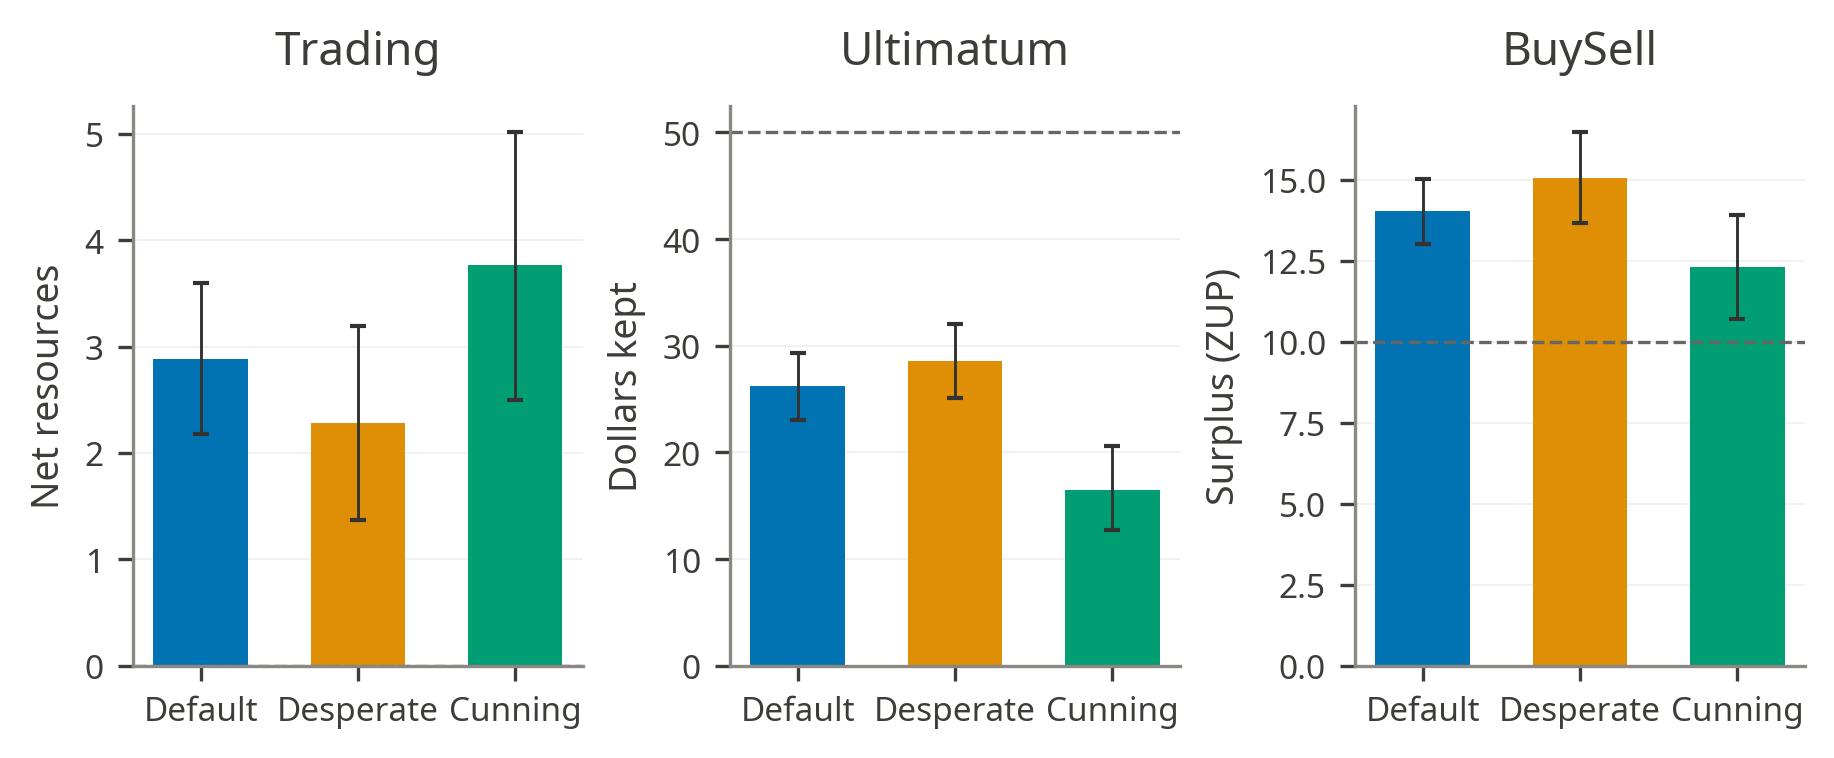
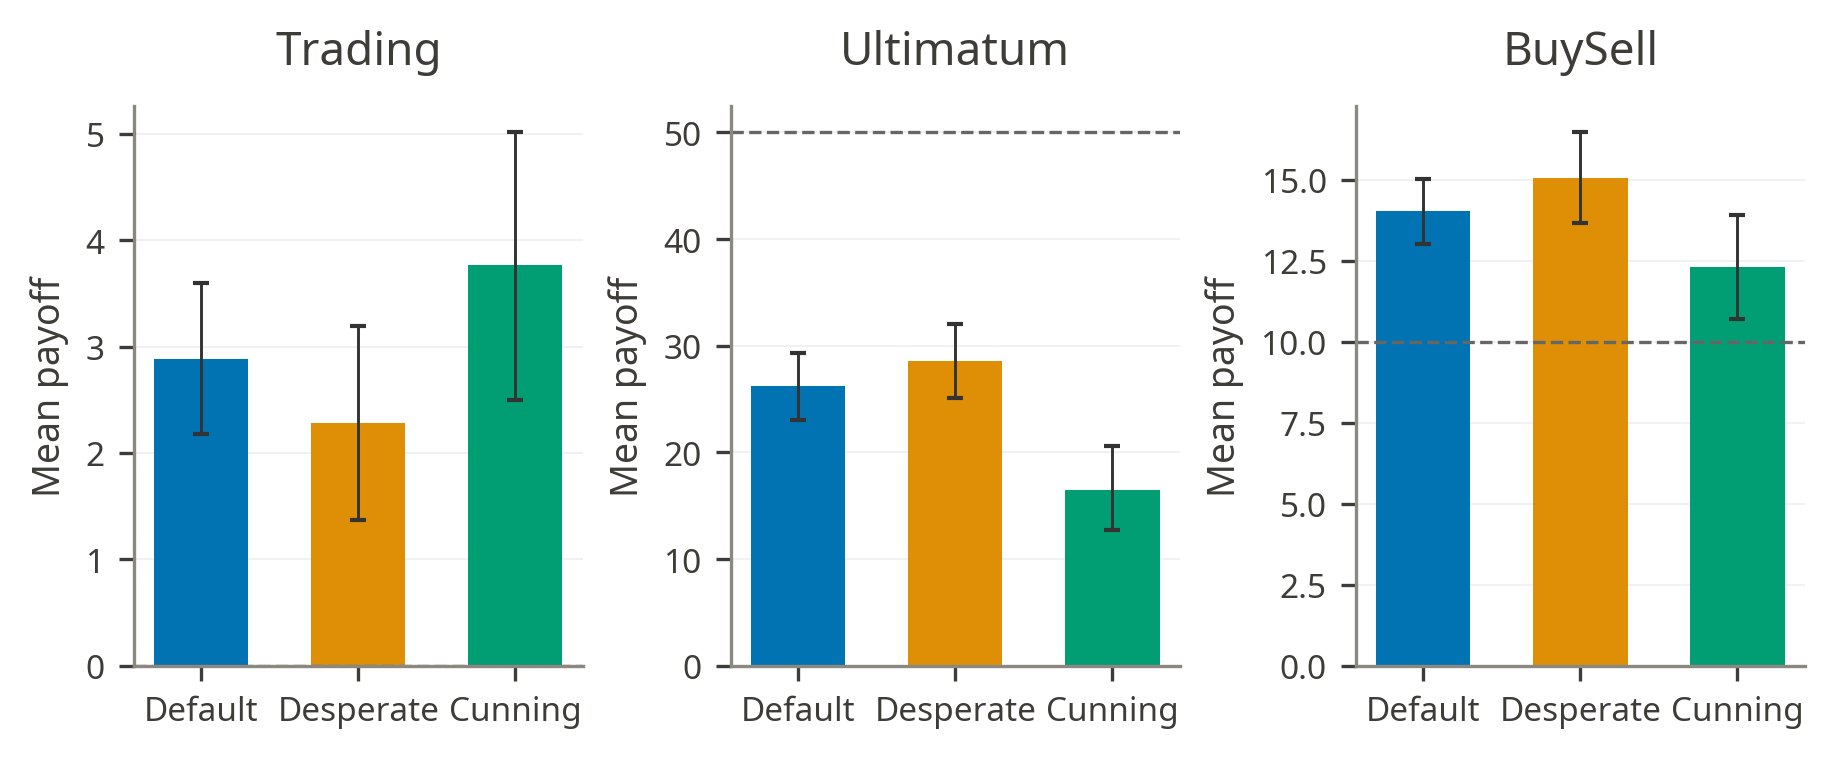
Update chapter 4 with references to new annex

diff --git a/context/MSc_Thesis/body/chapter4.tex b/context/MSc_Thesis/body/chapter4.tex
@@ -183,7 +183,7 @@ BuySell is a positive-sum game in which any price between the seller's cost of p
     \includegraphics[width=0.5\linewidth]{figures/results/cross_play/buysell_seller_anchoring.png}
     \caption{Seller opening price versus final agreed price in BuySell. The strong positive relationship indicates anchoring: opening higher is associated with closing higher.}
     \label{fig:buysell-seller-anchoring}
-\end{figure}average, at 40.2, and settle at 43.0.
+\end{figure}
 
 We also observe some irrational pricing. Across games, sellers open below their production cost in 16.2\% of games, and 12.9\% of completed deals close below cost. \texttt{Gemma-3-12B-it} is particularly irrational, opening below production cost in 76.7\% of games. Qwen, on the other hand, almost never makes this error.
 
@@ -191,7 +191,7 @@ We also observe some irrational pricing. Across games, sellers open below their 
 
 \textcite{bianchi_how_2024} reported that in GPT-4 self-play, assigning Player 2 a \textit{cunning} or \textit{desperate} persona raised both its win rate and payoff across all three games. We test whether this result transfers to open-weight models. In this experiment, the persona is assigned only to Player 2, and both seats use the same model (Subsection~\ref{sec:personas}). The result therefore reflects both how the model behaves when carrying the persona as P2 and how the same model, in the default P1 seat, responds.
 
-The GPT-4 pattern does not transfer completely. The effect is game-specific (Figure~\ref{fig:persona-winrate-game}) and varies significantly across models. In the Ultimatum Game, where the default responder wins only 14.3\% of games, \textit{cunning} raises Player 2's win rate to 70.5\%. In BuySell, \textit{desperate} raises Player 2's win rate from 75.2\% to 96.7\%. Trading shows no such gain; the win rate drops from 76.6\% under default to 64.1\% under \textit{desperate} and 71.9\% under \textit{cunning}.
+The GPT-4 pattern does not transfer completely. The effect is game-specific (Figure~\ref{fig:persona-winrate-game}) and varies significantly across models (Figures~\ref{fig:persona-winrate-heatmap}, Appendix~\ref{ap4:personas}). In the Ultimatum Game, where the default responder wins only 14.3\% of games, \textit{cunning} raises Player 2's win rate to 70.5\%. In BuySell, \textit{desperate} raises Player 2's win rate from 75.2\% to 96.7\%. Trading shows no such gain; the win rate drops from 76.6\% under default to 64.1\% under \textit{desperate} and 71.9\% under \textit{cunning}. The same breakdown by parameter tier (Figure~\ref{fig:persona-winrate-tier}, Appendix~\ref{ap4:personas}) shows the pattern is not monotonic in model size.
 
 \begin{figure}
     \centering
@@ -203,7 +203,7 @@ The GPT-4 pattern does not transfer completely. The effect is game-specific (Fig
     \label{fig:persona-winrate-game}
 \end{figure}
 
-Win rate alone is misleading here: it excludes ties, including the no-deals in which both sides score zero. Cunning in Ultimatum illustrates this well: despite having the highest win rate, it returns the lowest mean payoff of the three conditions (\$16.5 against \$26.2 at default and \$28.5 for desperate). The main reason for this mismatch between win rate and payoff is the no-deal rate (Figure~\ref{fig:persona-nodeal-game}). Cunning raises it in every game, and in Ultimatum it leads to a 73\% no-deal rate, compared to 13\% under default and 12\% under desperate. Even though it closes fewer deals, when those deals are closed, the cunning responder keeps far more than the others (\$61.7 on average, compared to \$30.2 at default and \$32.5 for desperate). Cunning is therefore high-risk, high-reward, a behaviour \textcite{bianchi_how_2024} also noticed for GPT-4. 
+Win rate alone is misleading here: it excludes ties, including the no-deals in which both sides score zero. Cunning in Ultimatum illustrates this well: despite having the highest win rate, it returns the lowest mean payoff of the three conditions (\$16.5 against \$26.2 at default and \$28.5 for desperate; Figure~\ref{fig:persona-payoff-game}, Appendix~\ref{ap4:personas}). The main reason for this mismatch between win rate and payoff is the no-deal rate (Figure~\ref{fig:persona-nodeal-game}). Cunning raises it in every game, and in Ultimatum it leads to a 73\% no-deal rate, compared to 13\% under default and 12\% under desperate. Even though it closes fewer deals, when those deals are closed, the cunning responder keeps far more than the others (\$61.7 on average, compared to \$30.2 at default and \$32.5 for desperate; Figure~\ref{fig:persona-payoff-conditional}, Appendix~\ref{ap4:personas}). Cunning is therefore high-risk, high-reward, a behaviour \textcite{bianchi_how_2024} also noticed for GPT-4.
 
 \begin{figure}
     \centering
@@ -214,7 +214,7 @@ Win rate alone is misleading here: it excludes ties, including the no-deals in w
     \label{fig:persona-nodeal-game}
 \end{figure}
 
-The analysis of Figure~\ref{fig:persona-offer-extremity} helps explain why these deals fail. Personas increase the demand extremity in the Ultimatum Game. At Player 2's first move, the default responder proposes an even split (median demand of 50) against a P1 that offers a quarter of the pot (median 25). \textit{Cunning} jumps the median demand to \$80. Cunning also reshapes the first response: the cunning P2 only accepts 8\% of first offers, counter-proposes in 34\% and rejects the remaining 58\% outright. The no-deals are mainly driven by the persona-bearing responder walking away. A total of 62.5\% of cunning Ultimatum games end after a P2 rejection compared to 9.8\% after P1, and this pattern holds across all three families.
+The analysis of Figure~\ref{fig:persona-offer-extremity} helps explain why these deals fail. Personas increase the demand extremity in the Ultimatum Game. At Player 2's first move, the default responder proposes an even split (median demand of 50) against a P1 that offers a quarter of the pot (median 25). \textit{Cunning} jumps the median demand to \$80. Cunning also reshapes the first response: the cunning P2 only accepts 8\% of first offers, counter-proposes in 34\% and rejects the remaining 58\% outright (Figure~\ref{fig:persona-first-action}, Appendix~\ref{ap4:personas}). The no-deals are mainly driven by the persona-bearing responder walking away. A total of 62.5\% of cunning Ultimatum games end after a P2 rejection compared to 9.8\% after P1 (Figure~\ref{fig:persona-rejection-initiator}, Appendix~\ref{ap4:personas}), and this pattern holds across all three families (Figure~\ref{fig:persona-nodeal-family}, Appendix~\ref{ap4:personas}).
 
 \begin{figure}
     \centering
@@ -258,7 +258,7 @@ Excerpt~\ref{ex:persona-cunning-two-sided} shows both sides of the high-risk, hi
 
 \textit{Desperate} is the less destructive of the two personas, with lower no-deal rates than \textit{cunning} in Trading (6.0\% versus 13.3\%), Ultimatum (12.1\% versus 72.7\%), and BuySell (29.3\% versus 40.2\%). Compared to the default, however, desperation increases the no-deal rate in Trading (from 2.0\% to 6.0\%) and BuySell (from 1.1\% to 29.3\%), while having little effect on the Ultimatum Game (12.1\%, down marginally from 13.2\%).
 
-One possible reason is that the desperate persona can talk a seller into accepting below their production cost: the mean accepted price of 38.6 ZUP sits below the seller's production cost of 40 ZUP, as seen in Excerpt~\ref{ex:persona-desperate-buysell}.
+One possible reason is that the desperate persona can talk a seller into accepting below their production cost: the mean accepted price of 38.6 ZUP sits below the seller's production cost of 40 ZUP (Figure~\ref{fig:persona-buysell-price}, Appendix~\ref{ap4:personas}), as seen in Excerpt~\ref{ex:persona-desperate-buysell}.
 
 \begin{negotiationexcerpt}[label=ex:persona-desperate-buysell]{A pleading buyer talks the seller below cost}{BuySell, 12--14B tier, Ministral~3 14B self-play, desperate P2; run \texttt{1779064096831}}
 \speaker{P1 (default seller)} Hello Player BLUE! I'm selling X (1 unit) and would like to propose a trade: 25 ZUP for it. \elide I'm open to reasonable counteroffers!
@@ -275,7 +275,7 @@ One possible reason is that the desperate persona can talk a seller into accepti
 \noindent Final price: 12 ZUP, below the seller's 40-ZUP cost --- seller surplus $-28$, buyer surplus $+48$.
 \end{negotiationexcerpt}
 
-The size of the persona effect also varies sharply from one model to the next (Figure~\ref{fig:persona-effect-spread}). It is not a uniform shift in one direction. For example, for some models, being cunning in the Ultimatum Game greatly increases win rate: \texttt{Gemma-3-27B-it} (+0.90), \texttt{Qwen-3.5-27B} (+0.80), and \texttt{Gemma-3-12B-it} (+0.62), while for others it has the opposite effect: \texttt{Ministral-3-8B} (-0.47).  
+The size of the persona effect also varies sharply from one model to the next (Figure~\ref{fig:persona-effect-spread}; per-model and per-game detail in Figures~\ref{fig:persona-winrate-heatmap} and~\ref{fig:persona-baseline-delta}, Appendix~\ref{ap4:personas}). It is not a uniform shift in one direction. For example, for some models, being cunning in the Ultimatum Game greatly increases win rate: \texttt{Gemma-3-27B-it} (+0.90), \texttt{Qwen-3.5-27B} (+0.80), and \texttt{Gemma-3-12B-it} (+0.62), while for others it has the opposite effect: \texttt{Ministral-3-8B} (-0.47).
 
 \begin{figure}
     \centering